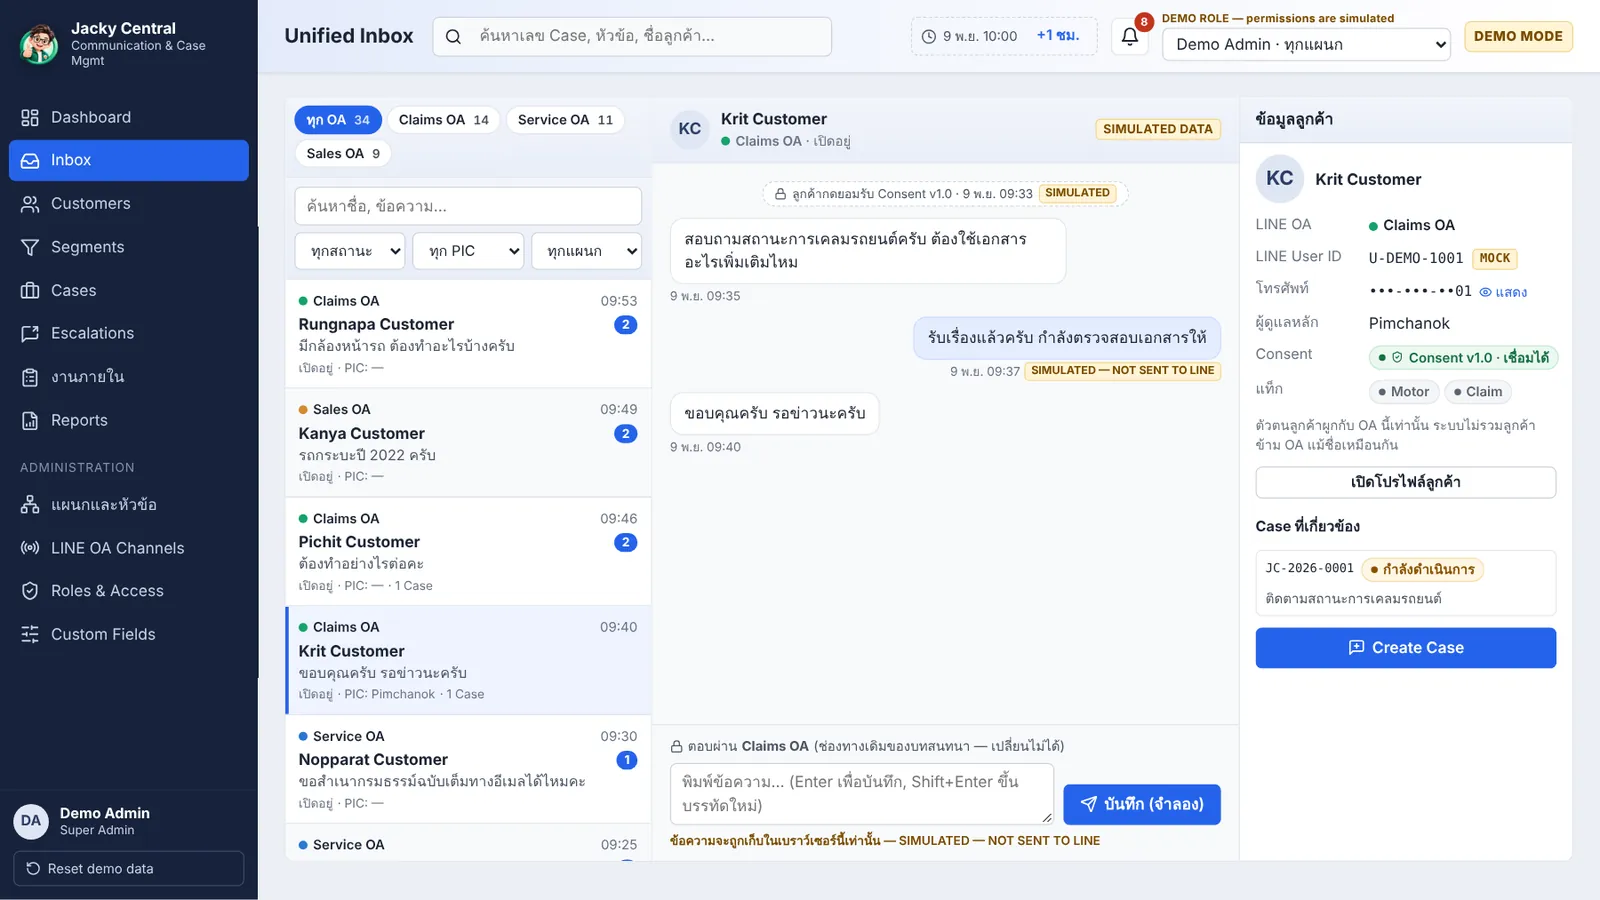
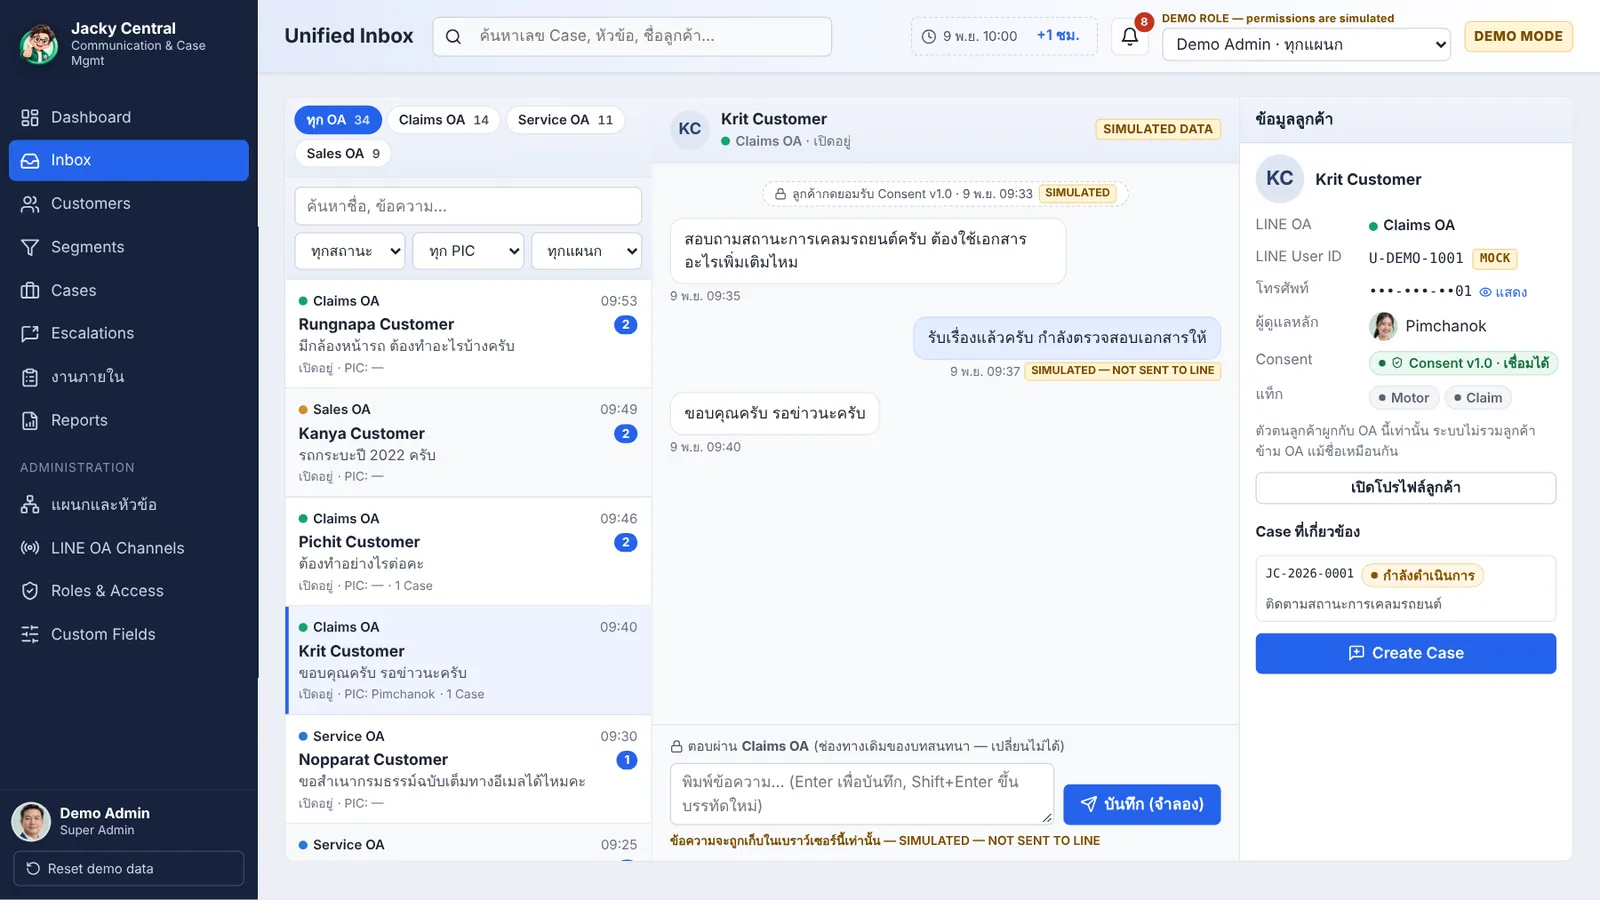
feat: add staff profile photos
- 27 staff photos sliced from three AI-generated 3x3 grids into
  public/avatars/<userId>.webp (192px)
- Avatar shows the photo when given a userId and falls back to initials
  if the file is missing; customers keep initials
- New UserChip (photo + name) for owners, PICs, requesters, approvers and
  task assignees: customer owner card and inbox panel, escalation card,
  cases and tasks tables, customers list, link requests, segments,
  reports, Customer 360
- Larger photos in Assign PIC and Create Case candidate lists
- Deck screenshots refreshed to show the photos

Claude-Session: https://claude.ai/code/session_01K3BtkdRztdLkSNyQUdM7Yx

Changed region(s): [[0.7812, 0.3422, 0.9688, 0.7778], [0.0, 0.8711, 0.0312, 0.9333], [0.7812, 0.3733, 0.8125, 0.4044]]

diff --git a/src/features/customers/CustomerProfilePage.tsx b/src/features/customers/CustomerProfilePage.tsx
@@ -19,7 +19,7 @@ import { POLICY_STATUS_LABEL, POLICY_TONE } from '../../utils/labels';
 import { isCaseOpen } from '../../utils/transitions';
 import { formatDateTime, ms } from '../../utils/time';
 import { DATA_CATEGORIES, type ConsentPurpose, type Customer, type CustomFieldDefinition, type CustomFieldValue } from '../../types/domain';
-import { Avatar, Button, Card, EmptyState, Field, KeyValue, Restricted } from '../../components/common/ui';
+import { Avatar, Button, Card, EmptyState, Field, KeyValue, Restricted, UserChip } from '../../components/common/ui';
 import { CaseStatusChip, Chip, DemoTag } from '../../components/common/Chip';
 import { ConfirmDialog, Modal } from '../../components/overlays/Modal';
 import { ChannelBadge } from '../channels/ChannelBadge';
@@ -118,7 +118,7 @@ function OverviewTab({ customer: c }: { customer: Customer }) {
         actions={canAssignCustomerOwner(data, me, c) && <Button size="sm" onClick={() => setOwnerOpen(true)}>{c.ownerUserId ? 'เปลี่ยน' : 'มอบหมาย'}</Button>}
       >
         {c.ownerUserId ? (
-          <div className="inline"><Avatar name={L.userName(c.ownerUserId)} size={28} /> <strong>{L.userName(c.ownerUserId)}</strong> <span className="muted small">{L.teamName(L.user(c.ownerUserId)?.teamId)}</span></div>
+          <div className="inline"><Avatar name={L.userName(c.ownerUserId)} size={40} userId={c.ownerUserId} /> <strong>{L.userName(c.ownerUserId)}</strong> <span className="muted small">{L.teamName(L.user(c.ownerUserId)?.teamId)}</span></div>
         ) : (
           <p className="muted">ยังไม่มีผู้ดูแลหลัก</p>
         )}
@@ -300,7 +300,7 @@ function C360Tab({ customer: c }: { customer: Customer }) {
                     items={[
                       ['LINE User ID', show('IDENTITY') ? <span key="i" className="mono">{v.customer.lineUserId}</span> : <OutOfScope key="i" />],
                       ['โทรศัพท์', show('CONTACT') ? <PiiValue key="p" customer={v.customer} field="phone" value={v.customer.phone} kind="phone" /> : <OutOfScope key="p" />],
-                      ['ผู้ดูแลหลัก', L.userName(v.customer.ownerUserId)],
+                      ['ผู้ดูแลหลัก', v.customer.ownerUserId ? <UserChip key="ow" userId={v.customer.ownerUserId} name={L.userName(v.customer.ownerUserId)} /> : '—'],
                       ['กรมธรรม์', show('POLICY') ? (pols.length ? pols.map((p) => `${p.product} (${POLICY_STATUS_LABEL[p.status]})`).join(', ') : 'ไม่มี') : <OutOfScope key="po" />],
                       ['Case / เคลม', show('CLAIM_DETAIL') || show('CONVERSATION') ? `${cases.length} Case (เปิด ${cases.filter((k) => isCaseOpen(k.status)).length})` : <OutOfScope key="ca" />],
                       ['บทสนทนา', show('CONVERSATION') ? `${conv.length} บทสนทนา${conv[0] ? ` · ล่าสุด ${formatDateTime(conv[0].lastMessageAt)}` : ''}` : <OutOfScope key="cv" />],
@@ -574,7 +574,7 @@ function NotesTab({ customer: c }: { customer: Customer }) {
         {notes.length === 0 && <li className="muted small">ยังไม่มีบันทึก</li>}
         {notes.map((n) => (
           <li key={n.id} className="comment">
-            <Avatar name={L.userName(n.authorId)} size={24} />
+            <Avatar name={L.userName(n.authorId)} size={24} userId={n.authorId} />
             <div>
               <p className="small"><strong>{L.userName(n.authorId)}</strong> <span className="muted">{formatDateTime(n.createdAt)}</span> {n.pinned && <Chip tone="amber"><Pin size={10} aria-hidden="true" /> ปักหมุด</Chip>}</p>
               <p>{n.body}</p>

diff --git a/src/features/escalation/EscalationCard.tsx b/src/features/escalation/EscalationCard.tsx
@@ -6,7 +6,7 @@ import { report, useLookups } from '../../store/hooks';
 import { canCancelEscalation, canDecideEscalation, canWorkEscalation, canWorkOnCase } from '../../utils/permissions';
 import { allowedEscalationActions, isEscalationActive, isTaskOpen, type EscalationAction } from '../../utils/transitions';
 import { formatDateTime } from '../../utils/time';
-import { Button, Field } from '../../components/common/ui';
+import { Button, Field, UserChip } from '../../components/common/ui';
 import { EscalationChip, TaskChip } from '../../components/common/Chip';
 import { ConfirmDialog } from '../../components/overlays/Modal';
 import { ChannelBadge } from '../channels/ChannelBadge';
@@ -67,14 +67,14 @@ export function EscalationCard({ escalationId, showCase, showHistory }: { escala
       )}
       <p className="esc-reason">{e.reason}</p>
       <dl className="esc-meta">
-        <div><dt>ขอโดย</dt><dd>{L.userName(e.requestedBy)} · {formatDateTime(e.createdAt)}</dd></div>
-        <div><dt>ผู้รับผิดชอบที่ขอ</dt><dd>{e.requestedOwnerId ? L.userName(e.requestedOwnerId) : '—'}</dd></div>
+        <div><dt>ขอโดย</dt><dd><UserChip userId={e.requestedBy} name={L.userName(e.requestedBy)} /> <span className="muted">· {formatDateTime(e.createdAt)}</span></dd></div>
+        <div><dt>ผู้รับผิดชอบที่ขอ</dt><dd>{e.requestedOwnerId ? <UserChip userId={e.requestedOwnerId} name={L.userName(e.requestedOwnerId)} /> : '—'}</dd></div>
         <div><dt>งานภายใน</dt><dd>{tasks.length ? `${tasks.length} งาน (ค้าง ${openTasks})` : 'ยังไม่มี'}</dd></div>
         {e.decisionNote && <div><dt>หมายเหตุการตัดสินใจ</dt><dd>{e.decisionNote}</dd></div>}
       </dl>
       {tasks.length > 0 && (
         <ul className="esc-tasks">
-          {tasks.map((t) => <li key={t.id}><TaskChip status={t.status} /> {t.title} <span className="muted small">— {L.userName(t.assignedUserId)}</span></li>)}
+          {tasks.map((t) => <li key={t.id}><TaskChip status={t.status} /> {t.title} <span className="small">— <UserChip userId={t.assignedUserId} name={L.userName(t.assignedUserId)} size={18} /></span></li>)}
         </ul>
       )}
       {(actions.length > 0 || canAddTask) && (

diff --git a/src/features/cases/CaseWorkspacePage.tsx b/src/features/cases/CaseWorkspacePage.tsx
@@ -189,7 +189,7 @@ function Overview({ caseId, onTab }: { caseId: string; onTab: (t: Tab) => void }
           items={[
             ['แผนก', L.depName(c.currentDepartmentId)],
             ['ทีม', L.teamName(c.currentTeamId)],
-            ['PIC', c.currentOwnerId ? <span key="o" className="inline"><Avatar name={L.userName(c.currentOwnerId)} size={22} /> {L.userName(c.currentOwnerId)}</span> : <span className="muted">ยังไม่มอบหมาย</span>],
+            ['PIC', c.currentOwnerId ? <span key="o" className="inline"><Avatar name={L.userName(c.currentOwnerId)} size={22} userId={c.currentOwnerId} /> {L.userName(c.currentOwnerId)}</span> : <span className="muted">ยังไม่มอบหมาย</span>],
             ['หัวข้อ', <span key="tp">{c.category}{topic ? ` · รับเรื่อง: ${L.depName(topic.responsibleDepartmentId)}` : ''}</span>],
             ['เห็น log', topic?.observerDepartmentIds.length ? topic.observerDepartmentIds.map((d) => L.depName(d)).join(', ') : <span key="nl" className="muted">—</span>],
             ['ผู้ติดตาม', observers.length ? observers.map((a) => L.userName(a.userId)).join(', ') : <span key="no" className="muted">—</span>],
@@ -241,7 +241,7 @@ function AssignmentTab({ caseId }: { caseId: string }) {
             <tbody>
               {hist.map((a) => (
                 <tr key={a.id}>
-                  <td><span className="inline"><Avatar name={L.userName(a.userId)} size={22} /> {L.userName(a.userId)}</span></td>
+                  <td><span className="inline"><Avatar name={L.userName(a.userId)} size={22} userId={a.userId} /> {L.userName(a.userId)}</span></td>
                   <td>{a.assignmentType}</td>
                   <td>{a.isActive ? <Chip tone="green">ปัจจุบัน</Chip> : <Chip tone="gray">สิ้นสุด {a.unassignedAt ? formatDateTime(a.unassignedAt) : ''}</Chip>}</td>
                   <td className="nowrap">{formatDateTime(a.assignedAt)}</td>

diff --git a/src/features/customers/LinksTable.tsx b/src/features/customers/LinksTable.tsx
@@ -6,7 +6,7 @@ import { canDecideLink, canUnlink } from '../../utils/permissions';
 import { LINK_STATUS_LABEL, LINK_TONE } from '../../utils/labels';
 import { formatDateTime } from '../../utils/time';
 import type { ProfileLink } from '../../types/domain';
-import { Button, EmptyState, Field } from '../../components/common/ui';
+import { Button, EmptyState, Field, UserChip } from '../../components/common/ui';
 import { Chip } from '../../components/common/Chip';
 import { ConfirmDialog } from '../../components/overlays/Modal';
 import { ConsentBadge, CustomerLink } from './shared';
@@ -49,8 +49,8 @@ export function LinksTable({ links, emptyHint }: { links: ProfileLink[]; emptyHi
                   <td><CustomerLink customerId={l.customerBId} /><div><ConsentBadge customerId={l.customerBId} /></div></td>
                   <td><Chip tone={LINK_TONE[l.status]} title={l.status}>{LINK_STATUS_LABEL[l.status]}</Chip></td>
                   <td className="small">{l.reason}{l.endReason && <div className="muted">{l.endReason}</div>}{l.decisionNote && <div className="muted">หมายเหตุ: {l.decisionNote}</div>}</td>
-                  <td className="small">{L.userName(l.requestedBy)}<div className="muted">{formatDateTime(l.requestedAt)}</div></td>
-                  <td className="small">{l.decidedBy ? <>{L.userName(l.decidedBy)}<div className="muted">{l.decidedAt && formatDateTime(l.decidedAt)}</div></> : '—'}</td>
+                  <td className="small">{<UserChip userId={l.requestedBy} name={L.userName(l.requestedBy)} size={20} />}<div className="muted">{formatDateTime(l.requestedAt)}</div></td>
+                  <td className="small">{l.decidedBy ? <><UserChip userId={l.decidedBy} name={L.userName(l.decidedBy)} size={20} /><div className="muted">{l.decidedAt && formatDateTime(l.decidedAt)}</div></> : '—'}</td>
                   <td>
                     <div className="btn-row">
                       {l.status === 'REQUESTED' && (

diff --git a/src/features/inbox/CreateCaseModal.tsx b/src/features/inbox/CreateCaseModal.tsx
@@ -131,7 +131,7 @@ export function CreateCaseModal({ conversationId, onClose, onCreated }: { conver
               <div className="pic-group">
                 <p className="pic-group-title">ผู้ดูแลหลักของลูกค้า · {L.depName(L.user(ranking.ownerOutsideList)?.departmentId)}</p>
                 <div className="cand compact is-current">
-                  <Avatar name={L.userName(ranking.ownerOutsideList)} size={28} />
+                  <Avatar name={L.userName(ranking.ownerOutsideList)} size={32} userId={ranking.ownerOutsideList} />
                   <div className="cand-who">
                     <strong>{L.userName(ranking.ownerOutsideList)}</strong> <Chip tone="purple">ผู้ดูแลหลัก</Chip>
                     <div className="muted small">ไม่อยู่ในรายชื่อ PIC ของหัวข้อนี้ → จะติดตาม Case ในฐานะผู้ติดตาม (OBSERVER) ไม่ได้รับงาน</div>
@@ -147,7 +147,7 @@ export function CreateCaseModal({ conversationId, onClose, onCreated }: { conver
                 return (
                   <label key={r.userId} className={`cand compact ${pic === r.userId ? 'selected' : ''}`}>
                     <input type="radio" name="cc-pic" value={r.userId} checked={pic === r.userId} onChange={() => setPic(r.userId)} />
-                    <Avatar name={u.name} size={28} />
+                    <Avatar name={u.name} size={32} userId={u.id} />
                     <div className="cand-who">
                       <strong className={r.isCustomerOwner ? 'owner-name' : undefined}>{u.name}</strong>{' '}
                       {r.isCustomerOwner && <Chip tone="purple">ผู้ดูแลหลักของลูกค้า · ลำดับแรก</Chip>}{' '}

diff --git a/src/components/common/ui.tsx b/src/components/common/ui.tsx
@@ -1,4 +1,4 @@
-import type { ButtonHTMLAttributes, ReactNode } from 'react';
+import { useState, type ButtonHTMLAttributes, type ReactNode } from 'react';
 import { Lock } from 'lucide-react';
 
 type Variant = 'primary' | 'secondary' | 'ghost' | 'danger';
@@ -76,16 +76,46 @@ export function Field({ label, htmlFor, required, error, hint, children }: { lab
   );
 }
 
-export function Avatar({ name, size = 28 }: { name: string; size?: number }) {
+/**
+ * Staff photo when `userId` is given (public/avatars/<userId>.webp), otherwise initials.
+ * Customers never get a photo. A missing file falls back to initials.
+ */
+export function Avatar({ name, size = 28, userId }: { name: string; size?: number; userId?: string | null }) {
+  const [broken, setBroken] = useState(false);
   const initials = name
     .split(' ')
     .map((p) => p[0])
     .join('')
     .slice(0, 2)
     .toUpperCase();
+  if (userId && !broken) {
+    return (
+      <img
+        className="avatar avatar-photo"
+        src={`/avatars/${userId}.webp`}
+        width={size}
+        height={size}
+        style={{ width: size, height: size }}
+        alt=""
+        loading="lazy"
+        onError={() => setBroken(true)}
+      />
+    );
+  }
   return (
     <span className="avatar" style={{ width: size, height: size, fontSize: size * 0.4 }} aria-hidden="true">
       {initials}
+    </span>
+  );
+}
+
+/** Small staff photo + name, used wherever an owner, PIC or requester is listed. */
+export function UserChip({ userId, name, size = 22 }: { userId: string | null | undefined; name: string; size?: number }) {
+  if (!userId) return <span className="muted">{name || '—'}</span>;
+  return (
+    <span className="user-chip">
+      <Avatar name={name} size={size} userId={userId} />
+      <span>{name}</span>
     </span>
   );
 }

diff --git a/src/features/inbox/InboxPage.tsx b/src/features/inbox/InboxPage.tsx
@@ -8,7 +8,7 @@ import { can, canReplyConversation, canSeeCase, canSeeConversation, canSeeCustom
 import { CONVERSATION_STATUS_LABEL } from '../../utils/labels';
 import { formatDateTime, formatTime } from '../../utils/time';
 import { CONVERSATION_STATUSES } from '../../types/domain';
-import { Avatar, Button, EmptyState, KeyValue, Restricted } from '../../components/common/ui';
+import { Avatar, Button, EmptyState, KeyValue, Restricted, UserChip } from '../../components/common/ui';
 import { CaseStatusChip, Chip, DemoTag } from '../../components/common/Chip';
 import { ChannelBadge } from '../channels/ChannelBadge';
 import { CreateCaseModal } from './CreateCaseModal';
@@ -259,7 +259,7 @@ function CustomerPanel({ conversationId, onCreated }: { conversationId: string; 
           ['LINE OA', <ChannelBadge key="c" channelId={conv.conversation.channelId} />],
           ['LINE User ID', <span key="u" className="mono">{cus?.lineUserId} <DemoTag>MOCK</DemoTag></span>],
           ['โทรศัพท์', cus ? <PiiValue key="p" customer={cus} field="phone" value={cus.phone} kind="phone" /> : '—'],
-          ['ผู้ดูแลหลัก', cus?.ownerUserId ? L.userName(cus.ownerUserId) : <span key="o" className="muted">ยังไม่มี</span>],
+          ['ผู้ดูแลหลัก', cus?.ownerUserId ? <UserChip key="ow" userId={cus.ownerUserId} name={L.userName(cus.ownerUserId)} size={26} /> : <span key="o" className="muted">ยังไม่มี</span>],
           ['Consent', cus ? <ConsentBadge key="cs" customerId={cus.id} /> : '—'],
           ['แท็ก', <span key="t" className="tags">{cus?.tags.map((t) => <Chip key={t} tone="gray">{t}</Chip>)}</span>],
         ]}

diff --git a/src/features/customers/CustomersPage.tsx b/src/features/customers/CustomersPage.tsx
@@ -8,7 +8,7 @@ import { canDecideLink, canSeeCustomer } from '../../utils/permissions';
 import { hasPurpose } from '../../utils/consent';
 import { matchesAll } from '../../utils/segments';
 import { isCaseOpen } from '../../utils/transitions';
-import { Card, EmptyState } from '../../components/common/ui';
+import { Card, EmptyState, UserChip } from '../../components/common/ui';
 import { Chip } from '../../components/common/Chip';
 import { ChannelBadge } from '../channels/ChannelBadge';
 import { ConsentBadge, nearestExpiryDays } from './shared';
@@ -115,7 +115,7 @@ function CustomerList() {
                   <tr key={c.id}>
                     <td><Link to={`/customers/${c.id}`} className="link">{c.displayName}</Link><div className="muted small mono">{c.lineUserId}</div></td>
                     <td><ChannelBadge channelId={c.channelId} small /></td>
-                    <td>{c.ownerUserId ? L.userName(c.ownerUserId) : <span className="muted">—</span>}</td>
+                    <td>{c.ownerUserId ? <UserChip userId={c.ownerUserId} name={L.userName(c.ownerUserId)} /> : <span className="muted">—</span>}</td>
                     <td><span className="tags">{c.tags.map((t) => <Chip key={t} tone="gray">{t}</Chip>)}</span></td>
                     <td>{open || <span className="muted">0</span>}</td>
                     <td className="small">{active ? `${active} ฉบับ` : <span className="muted">ไม่มี</span>}{days !== null && days <= 30 && <div><Chip tone="amber">หมดใน {days} วัน</Chip></div>}</td>

diff --git a/src/features/cases/CasesPage.tsx b/src/features/cases/CasesPage.tsx
@@ -10,7 +10,7 @@ import { CASE_STATUS_LABEL, PRIORITY_LABEL, SLA_LABEL } from '../../utils/labels
 import { formatDateTime } from '../../utils/time';
 import { CASE_STATUSES, PRIORITIES, SLA_STATES } from '../../types/domain';
 import { CaseStatusChip, PriorityChip, SlaChip } from '../../components/common/Chip';
-import { Card, EmptyState } from '../../components/common/ui';
+import { Card, EmptyState, UserChip } from '../../components/common/ui';
 import { ChannelBadge } from '../channels/ChannelBadge';
 
 /** Filters live in the URL so Dashboard cards can deep-link (e.g. ?status=OPEN&sla=RISK). */
@@ -112,7 +112,7 @@ export function CasesPage() {
                   <td>{L.customer(c.originalCustomerId)?.displayName}<div><ChannelBadge channelId={c.originalChannelId} small /></div></td>
                   <td><CaseStatusChip status={c.status} /></td>
                   <td><PriorityChip priority={c.priority} /></td>
-                  <td>{L.depName(c.currentDepartmentId)}<div className="muted small">{L.userName(c.currentOwnerId)}</div></td>
+                  <td>{L.depName(c.currentDepartmentId)}<div className="small"><UserChip userId={c.currentOwnerId} name={L.userName(c.currentOwnerId)} size={20} /></div></td>
                   <td><SlaChip state={sla.state} /></td>
                   <td className="nowrap small">{formatDateTime(c.dueAt)}</td>
                 </tr>

diff --git a/src/features/segments/SegmentsPage.tsx b/src/features/segments/SegmentsPage.tsx
@@ -9,7 +9,7 @@ import { PURPOSE_LABEL } from '../../utils/consent';
 import { describeRule } from '../../utils/segments';
 import { formatDateTime } from '../../utils/time';
 import { CONSENT_PURPOSES, type SegmentRule } from '../../types/domain';
-import { Button, Card, EmptyState, Field } from '../../components/common/ui';
+import { Button, Card, EmptyState, Field, UserChip } from '../../components/common/ui';
 import { DemoTag } from '../../components/common/Chip';
 import { ConfirmDialog, Modal } from '../../components/overlays/Modal';
 import { ChannelBadge } from '../channels/ChannelBadge';
@@ -67,7 +67,7 @@ export function SegmentsPage() {
                         <tr key={c.id}>
                           <td><Link to={`/customers/${c.id}`} className="link">{c.displayName}</Link></td>
                           <td><ChannelBadge channelId={c.channelId} small /></td>
-                          <td>{L.userName(c.ownerUserId)}</td>
+                          <td>{c.ownerUserId ? <UserChip userId={c.ownerUserId} name={L.userName(c.ownerUserId)} /> : '—'}</td>
                           <td>{days !== null ? `อีก ${days} วัน` : '—'}</td>
                           <td><ConsentBadge customerId={c.id} /></td>
                         </tr>

diff --git a/src/features/tasks/TasksTable.tsx b/src/features/tasks/TasksTable.tsx
@@ -6,7 +6,7 @@ import { useLookups } from '../../store/hooks';
 import { isTaskOpen } from '../../utils/transitions';
 import { formatDateTime, ms } from '../../utils/time';
 import type { InternalTask } from '../../types/domain';
-import { EmptyState } from '../../components/common/ui';
+import { EmptyState, UserChip } from '../../components/common/ui';
 import { Chip, TaskChip } from '../../components/common/Chip';
 import { TaskDrawer } from './TaskDrawer';
 
@@ -44,7 +44,7 @@ export function TasksTable({ tasks, hideCase }: { tasks: InternalTask[]; hideCas
                   </td>
                   {!hideCase && <td>{c && <Link to={`/cases/${c.id}?tab=tasks`} className="mono link">{c.caseNumber}</Link>}</td>}
                   <td>{L.depName(t.assignedDepartmentId)}<div className="muted small">{L.teamName(t.assignedTeamId)}</div></td>
-                  <td>{L.userName(t.assignedUserId)}</td>
+                  <td><UserChip userId={t.assignedUserId} name={L.userName(t.assignedUserId)} /></td>
                   <td className="nowrap">{formatDateTime(t.dueAt)} {overdue && <Chip tone="red">เลยกำหนด</Chip>}</td>
                   <td><TaskChip status={t.status} /></td>
                 </tr>

diff --git a/src/features/reports/ReportsPage.tsx b/src/features/reports/ReportsPage.tsx
@@ -8,7 +8,7 @@ import { isCaseOpen, isEscalationActive, isTaskOpen } from '../../utils/transiti
 import { formatDuration, ms } from '../../utils/time';
 import { computeSla } from '../../utils/sla';
 import { ESCALATION_STATUSES } from '../../types/domain';
-import { Card, Restricted } from '../../components/common/ui';
+import { Card, Restricted, UserChip } from '../../components/common/ui';
 import { DemoTag, EscalationChip } from '../../components/common/Chip';
 import { BarList } from './BarList';
 import { RANGE_LABEL, rangeStart, scoped, slaCounts, type RangeKey } from './metrics';
@@ -81,7 +81,7 @@ export function ReportsPage() {
                 const tasks = S.tasks.filter((t) => t.assignedUserId === u.id && isTaskOpen(t.status)).length;
                 return (
                   <tr key={u.id}>
-                    <td>{u.name}</td>
+                    <td><UserChip userId={u.id} name={u.name} /></td>
                     <td>{L.depName(u.departmentId)}<div className="muted small">{L.teamName(u.teamId)}</div></td>
                     <td>{AVAILABILITY_LABEL[u.availability]}</td>
                     <td>{owned}</td>
